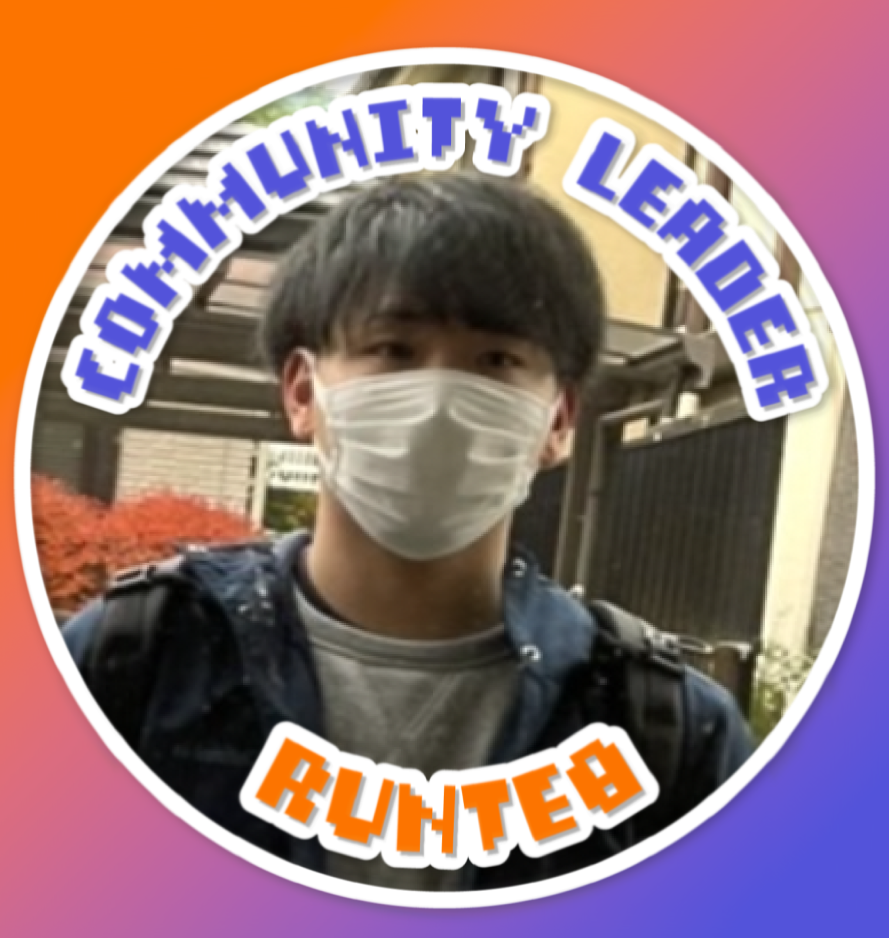
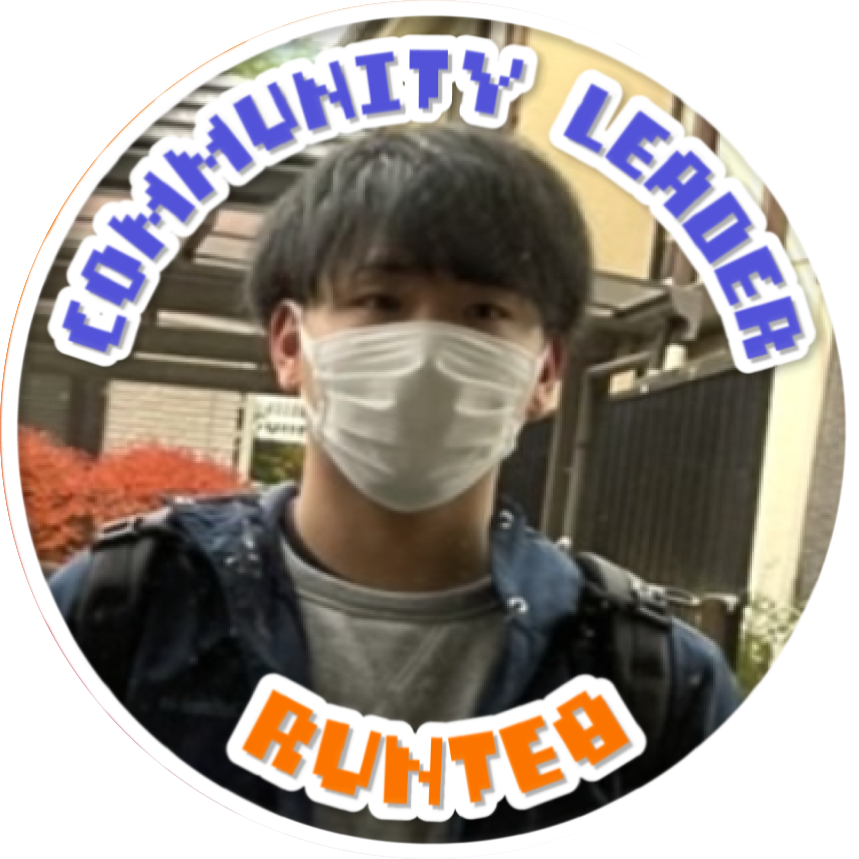
加藤バージョンに変更、エラー対応のためpackage.jsonの更新

diff --git a/web/pages/members/kato.tsx b/web/pages/members/kato.tsx
@@ -1,7 +1,88 @@
-export default function KatoPage() {
-  return (
-    <div>
+import { motion, useMotionValue, useTransform } from 'framer-motion';
+import Social from '../../template/components/Social';
+import MyImg from "../../template/components/MyImg";
+import { Transition } from '../../template/components/transitions';
 
-    </div>
+const KatoPage: React.FC = () => {
+  const x = useMotionValue(0);
+  const y = useMotionValue(0);
+  const rotateX = useTransform(y, [-100, 100], [30, -30]);
+  const rotateY = useTransform(x, [-100, 100], [-30, 30]);
+
+  return (
+    <motion.section
+      initial={{ opacity: 0 }}
+      animate={{ opacity: 1 }}
+      exit={{ opacity: 0 }}
+      transition={{ Transition }}
+      className="relative min-h-screen"
+    >
+      <div className="h-[80vh] xl:h-screen relative flex items-center justify-center">
+        <div className="absolute w-full h-full z-10 bg-blue/[0.86]" />
+        <section className="relative z-20 py-12 xl:py-24 text-white">
+          <div className="container mx-auto">
+            <div className="flex justify-between items-center gap-x-8">
+              <motion.div
+                initial={{ opacity: 0, y: '-50%' }}
+                animate={{ opacity: 1, y: 0 }}
+                exit={{ opacity: 0, y: '-50%' }}
+                transition={{ Transition }}
+                className="backdrop-blur-lg bg-white/20 p-8 rounded-lg shadow-lg max-w-[600px] flex-col justify-center mx-auto xl:mx-0 text-center xl:text-left"
+              >
+                <h2 className="text-5xl font-bold text-orange">Hello</h2>
+                <div className="text-3xl mt-2 font-semibold text-orange">My Name is Naoto Kato</div>
+                <div className="text-xl mt-4 text-orange">My Vision to Become the Ultimate PM</div>
+                <div className="mt-4 text-lg leading-relaxed text-orange">
+                  前職では、主にバラエティや音楽番組の照明を担当していました。2022年末までテレビ業界でキャリアを積む中で、IT分野に強い興味を持ち、プログラミングスクールでスキルを習得しました。現在は、SIerに常駐して運用保守の業務を担当しつつ、自社業務ではReactを用いたフロントエンド開発にも携わっています。10月からはメガベンチャーでPMとして従事します。将来的には複数のプロジェクトを管理しマネジメントスキルを高め、新規プロジェクトの立ち上げに携わりたいと考えています。
+                </div>
+                <div className="mt-8 flex flex-col xl:flex-row items-center gap-8">
+                  <Social
+                    containerStyles="flex gap-6"
+                    iconStyles="w-10 h-10 border border-green rounded-full flex justify-center items-center text-white text-base bg-green hover:bg-darkGreen hover:text-white transition-all duration-500"
+                  />
+                </div>
+              </motion.div>
+              <motion.div
+                initial={{ opacity: 0, scale: 0 }}
+                animate={{ opacity: 1, scale: 1 }}
+                transition={{
+                  type: "spring",
+                  stiffness: 100,
+                  damping: 10,
+                  delay: 0.4,
+                }}
+                className="hidden xl:flex relative"
+              >
+                <div style={{ perspective: 2000 }}>
+                  <motion.div
+                    style={{ x, y, rotateX, rotateY, z: 100 }}
+                    drag
+                    dragElastic={0.18}
+                    dragConstraints={{ top: 0, left: 0, right: 0, bottom: 0 }}
+                    whileTap={{ cursor: 'grabbing' }}
+                    className="backdrop-blur-lg bg-white/20 p-8 rounded-lg shadow-lg"
+                  >
+                    <div
+                      className="w-[500px] h-[500px] bg-no-repeat absolute -top-1 -right-1 z-0"
+                      style={{ backgroundImage: `url('/template/shape-light.svg')` }}
+                    />
+                    <MyImg
+                      containerStyles="w-[510px] h-[462px] bg-no-repeat relative bg-bottom rounded-lg overflow-hidden shadow-lg"
+                      imgSrc='/kato/profile.png'
+                      style={{ backgroundImage: `url('/template/shape-1.svg')` }}
+                    />
+                  </motion.div>
+                </div>
+              </motion.div>
+            </div>
+          </div>
+        </section>
+        <video autoPlay loop muted className="absolute top-0 left-0 w-full h-full object-cover">
+          <source src="/template/strawberry.mp4" type="video/mp4" />
+        </video>
+      </div>
+    </motion.section>
   );
-}
+};
+
+export default KatoPage;

diff --git a/web/components/kato/Social.tsx b/web/components/kato/Social.tsx
@@ -1,0 +1,34 @@
+import Link from "next/link"
+import { FC } from "react";
+import { FaGithub, FaInstagram } from 'react-icons/fa';
+import XIcon from '@mui/icons-material/X';
+import { SiQiita, SiMattermost } from "react-icons/si";
+
+const socials = [
+  { icon: <FaGithub />, path: "https://github.com/n-katou" },
+  { icon: <SiQiita />, path: "https://qiita.com/n-katou" },
+  { icon: <XIcon />, path: "https://x.com/k1997022023" },
+  { icon: <SiMattermost />, path: "https://chat.runteq.jp/runteq/channels/times_pro_3a_kato_naoto" }
+]
+
+// プロップの型定義
+interface SocialProps {
+  containerStyles: string;
+  iconStyles: string;
+}
+
+const Social: FC<SocialProps> = ({ containerStyles, iconStyles }) => {
+  return (
+    <div className={containerStyles}>
+      {socials.map((item, index) => {
+        return (
+          <Link key={index} href={item.path} className={iconStyles}>
+            {item.icon}
+          </Link>
+        )
+      })}
+    </div>
+  );
+};
+
+export default Social

diff --git a/web/components/kato/MyImg.tsx b/web/components/kato/MyImg.tsx
@@ -1,0 +1,18 @@
+import Image from "next/image";
+import { FC, CSSProperties } from "react";
+
+interface MyImgProps {
+  containerStyles: string;
+  imgSrc: string;
+  style?: CSSProperties;
+}
+
+const MyImg: FC<MyImgProps> = ({ containerStyles, imgSrc, style }) => {
+  return (
+    <div className={`${containerStyles}`} style={style}>
+      <Image src={imgSrc} fill priority alt='' />
+    </div>
+  );
+};
+
+export default MyImg

diff --git a/web/components/kato/transitions.js b/web/components/kato/transitions.js
@@ -1,0 +1,7 @@
+import { delay } from "framer-motion";
+
+export const Transition = {
+  duration: 10.0,
+  delay: 2.0,
+  ease: [0.6, 0.01, -0.05, 0.9],
+};
